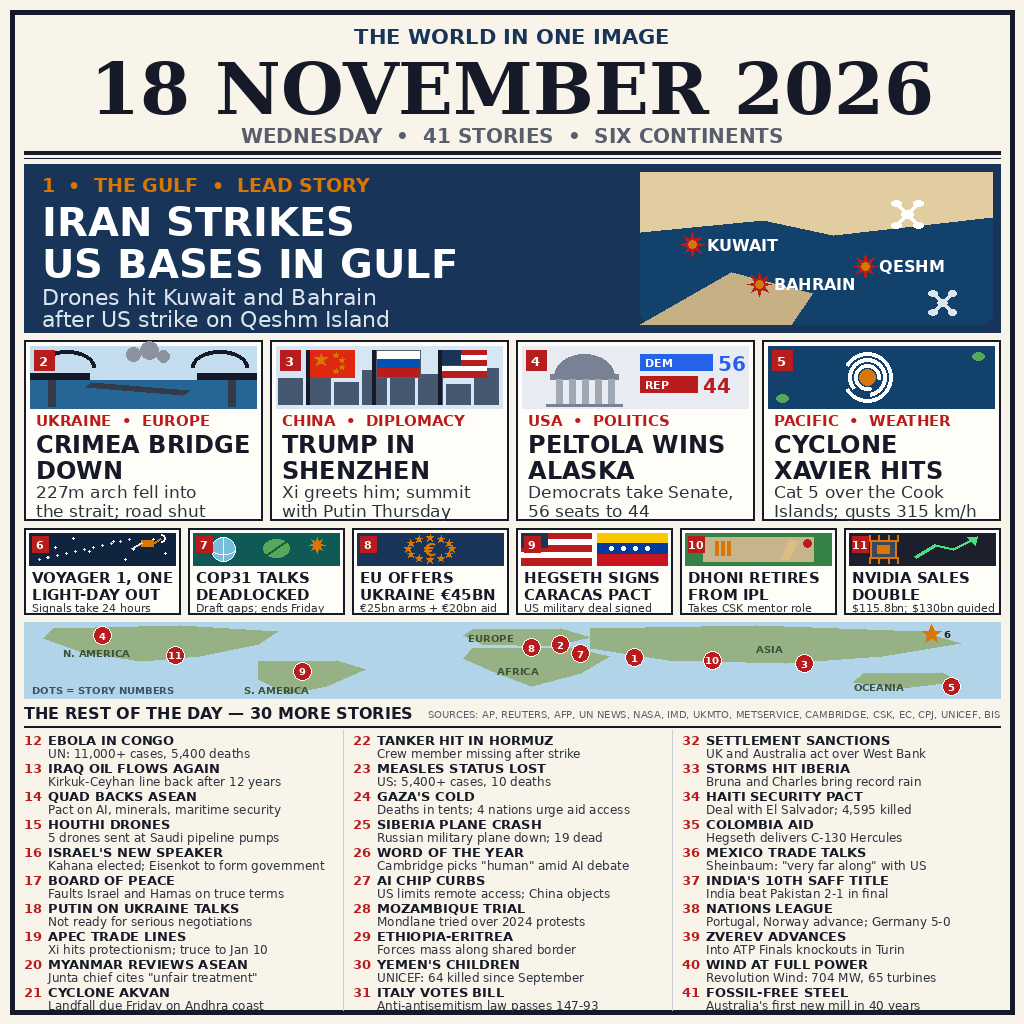
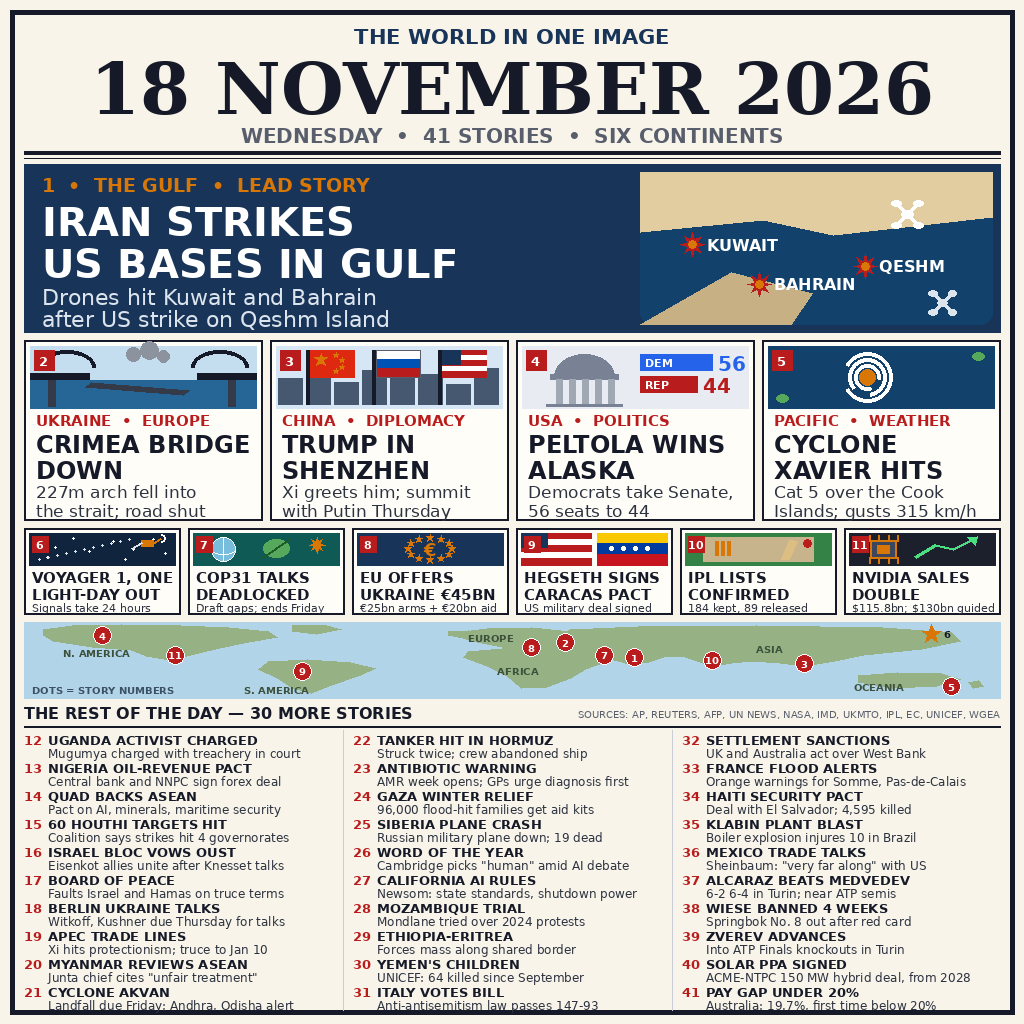
Rebuild poster v3: all 41 stories re-verified to 18 Nov, redrawn world map

diff --git a/render.py b/render.py
@@ -1,5 +1,5 @@
 #!/usr/bin/env python3
-"""Draw the 18 November 2026 world-news poster, version 2, for make.fun.
+"""Draw the 18 November 2026 world-news poster, version 3, for make.fun.
 
 Build-time generator only: run it locally to produce entry.png, which the
 grader entrypoint (main.py, standard library only) then copies to /output.
@@ -10,8 +10,9 @@ picture panels, six small picture cards, a schematic world map and a
 numbered index of thirty more stories, 41 stories in all across six
 continents. Display type stays large so the page still reads small.
 
-Facts shown (all from reporting published on 18 November 2026; several
-items are 16-17 November events dominating 18 November coverage):
+Facts shown (every item has a verified 18 November 2026 hook: it happened
+on 18 Nov, was first reported on 18 Nov, or has a substantive new 18 Nov
+development):
   1 Gulf: Iran struck at Kuwait and Bahrain early on 18 Nov after the
     US struck Qeshm Island; the bases named host US forces.
   2 Crimea: the Kerch bridge road arch (227 m) fell into the strait
@@ -30,31 +31,36 @@ items are 16-17 November events dominating 18 November coverage):
     in 2027, 25bn military and 20bn budget support.
   9 Venezuela: US Defense Secretary Hegseth signed a military
     cooperation deal in Caracas with interim president Rodriguez.
-  10 Dhoni: MS Dhoni retired as an IPL player and takes a CSK mentor
-    role.
+  10 IPL: the IPL confirmed its 2027 retention lists on 18 Nov: 184
+    players kept, 89 released; Dhoni, who retired as a player on
+    17 Nov, stays at CSK as mentor.
   11 Nvidia: quarterly revenue of $115.8bn, up 103% year on year,
     with about $130bn guided for the next quarter.
-  12-41 (brief index): Ebola in Congo (UN: 11,000+ cases, 5,400
-    deaths); Iraq's Kirkuk-Ceyhan oil pipeline flowing again after 12
-    years; Quad leaders backing ASEAN centrality; Houthi drones at
-    Saudi pipeline pumps; Kahana elected Knesset speaker and Eisenkot
-    tapped to form a government; the Board of Peace faulting Israel
-    and Hamas; Putin not ready for serious Ukraine talks; APEC trade
-    lines and the US-China truce to 10 January; Myanmar reviewing
-    ASEAN ties; Cyclone Akvan nearing Andhra Pradesh; a tanker hit in
-    the Strait of Hormuz; the US losing measles-free status; cold
-    killing in Gaza tents with four nations urging aid access; a
+  12-41 (brief index): Uganda activist Mugumya charged with treachery
+    in a military court; Nigeria's central bank and NNPC sign a forex
+    and energy pact; Quad leaders backing ASEAN centrality; the
+    coalition says 60 Houthi targets destroyed; Eisenkot's bloc vows
+    a swift oust of Netanyahu; the Board of Peace faulting Israel
+    and Hamas; Witkoff and Kushner due in Berlin for Ukraine talks;
+    APEC trade lines and the US-China truce to 10 January; Myanmar
+    reviewing ASEAN ties; Cyclone Akvan, severe storm, landfall due
+    Friday (IMD: 90-100 km/h gusting 110, Narsapur-Puri); the LPG
+    tanker Tara Gas struck twice in the Strait of Hormuz, crew
+    abandoned ship; an antibiotic-resistance warning as AMR Week
+    opens; winter relief for 96,000 flood-hit Gaza families; a
     Russian military plane crash in Siberia killing 19; Cambridge
-    picking "human" as Word of the Year; US curbs on remote AI-chip
-    access; Mozambique's Mondlane on trial; Ethiopia and Eritrea
-    massing forces on their border; 64 children killed in Yemen
-    (UNICEF); Italy's anti-antisemitism bill passing 147-93; UK and
-    Australian sanctions over West Bank settlements; storms Bruna and
-    Charles over Portugal and Madeira; Haiti's security pact with El
-    Salvador; a C-130 for Colombia; Mexico-US trade talks "very far
-    along"; India's 10th SAFF title; Nations League results; Zverev
-    reaching the ATP Finals knockouts; Revolution Wind at full power;
-    Australia's first new steel mill in 40 years, fossil-free.
+    picking "human" as Word of the Year; California's AI safety
+    rules with shutdown power; Mozambique's Mondlane on trial;
+    Ethiopia and Eritrea massing forces on their border; 64
+    children killed in Yemen (UNICEF); Italy's anti-antisemitism
+    bill passing 147-93; UK and Australian sanctions over West Bank
+    settlements; orange rain-flood warnings for Somme and
+    Pas-de-Calais; Haiti's security pact with El Salvador; a boiler
+    explosion injuring 10 at a Klabin plant in Brazil; Mexico-US
+    trade talks "very far along"; Alcaraz beating Medvedev 6-2 6-4;
+    Wiese banned four weeks; Zverev reaching the ATP Finals
+    knockouts; ACME Solar's 150 MW hybrid PPA with NTPC;
+    Australia's gender pay gap below 20% for the first time.
 """
 
 import math
@@ -283,7 +289,7 @@ def mini_venezuela(draw, x0, y0, x1, y1):
         draw.ellipse([sx - 2, y0 + 13, sx + 2, y0 + 17], fill=WHITE)
 
 
-def mini_dhoni(draw, x0, y0, x1, y1):
+def mini_cricket(draw, x0, y0, x1, y1):
     draw.rectangle([x0, y0, x1, y1], fill=(52, 130, 70))
     draw.rectangle([x0 + 18, y0 + 4, x0 + 128, y0 + 28], fill=(200, 180, 140))
     for sx in (x0 + 30, x0 + 36, x0 + 42):
@@ -313,23 +319,44 @@ def world_map(draw, x0, y0, x1, y1):
     def poly(fracs):
         draw.polygon([(x0 + fx * w, y0 + fy * h) for fx, fy in fracs], fill=LAND)
 
-    poly([(0.03, 0.08), (0.16, 0.05), (0.26, 0.12), (0.24, 0.30), (0.18, 0.45),
-          (0.12, 0.52), (0.06, 0.40), (0.02, 0.22)])
-    poly([(0.24, 0.52), (0.32, 0.50), (0.35, 0.62), (0.31, 0.85), (0.27, 0.95), (0.24, 0.75)])
-    poly([(0.46, 0.10), (0.55, 0.08), (0.58, 0.20), (0.54, 0.32), (0.47, 0.30), (0.45, 0.18)])
-    poly([(0.46, 0.35), (0.56, 0.33), (0.60, 0.45), (0.57, 0.68), (0.52, 0.85),
-          (0.48, 0.65), (0.45, 0.48)])
-    poly([(0.58, 0.08), (0.75, 0.05), (0.92, 0.12), (0.96, 0.28), (0.88, 0.45),
-          (0.78, 0.55), (0.66, 0.50), (0.58, 0.35)])
-    poly([(0.86, 0.68), (0.94, 0.66), (0.96, 0.78), (0.90, 0.88), (0.85, 0.80)])
+    # North America: Alaska bump, Hudson Bay bite, Mexico taper.
+    poly([(0.02, 0.10), (0.05, 0.05), (0.10, 0.03), (0.16, 0.04), (0.21, 0.07),
+          (0.25, 0.13), (0.26, 0.21), (0.23, 0.27), (0.20, 0.35), (0.175, 0.43),
+          (0.15, 0.51), (0.125, 0.46), (0.11, 0.37), (0.07, 0.34), (0.03, 0.26),
+          (0.02, 0.18)])
+    # Greenland.
+    poly([(0.275, 0.05), (0.31, 0.04), (0.325, 0.10), (0.30, 0.16), (0.275, 0.12)])
+    # South America: Brazil bulge, tapering tail.
+    poly([(0.25, 0.52), (0.29, 0.49), (0.335, 0.53), (0.36, 0.61), (0.345, 0.71),
+          (0.315, 0.83), (0.295, 0.94), (0.275, 0.88), (0.26, 0.74), (0.24, 0.62)])
+    # Europe with Britain offshore.
+    poly([(0.45, 0.13), (0.475, 0.08), (0.52, 0.07), (0.56, 0.12), (0.575, 0.20),
+          (0.565, 0.28), (0.55, 0.35), (0.52, 0.37), (0.49, 0.33), (0.46, 0.26),
+          (0.445, 0.19)])
+    poly([(0.435, 0.13), (0.455, 0.11), (0.465, 0.17), (0.45, 0.22), (0.435, 0.18)])
+    # Africa: west bulge and the Horn.
+    poly([(0.455, 0.39), (0.49, 0.355), (0.545, 0.355), (0.585, 0.40), (0.605, 0.45),
+          (0.595, 0.53), (0.575, 0.62), (0.56, 0.74), (0.535, 0.86), (0.51, 0.87),
+          (0.495, 0.72), (0.475, 0.58), (0.45, 0.47)])
+    # Asia: Turkey bump, Arabia, India triangle, SE Asia.
+    poly([(0.545, 0.22), (0.548, 0.30), (0.552, 0.37), (0.568, 0.425), (0.59, 0.44),
+          (0.605, 0.50), (0.62, 0.56), (0.64, 0.53), (0.655, 0.47), (0.675, 0.45),
+          (0.69, 0.52), (0.705, 0.59), (0.725, 0.55), (0.745, 0.52), (0.775, 0.55),
+          (0.80, 0.58), (0.83, 0.52), (0.86, 0.44), (0.92, 0.36), (0.96, 0.26),
+          (0.95, 0.14), (0.88, 0.07), (0.75, 0.04), (0.63, 0.06), (0.56, 0.10),
+          (0.55, 0.16)])
+    # Australia and New Zealand.
+    poly([(0.855, 0.70), (0.895, 0.665), (0.94, 0.68), (0.96, 0.76), (0.935, 0.85),
+          (0.89, 0.87), (0.855, 0.79)])
+    poly([(0.968, 0.79), (0.978, 0.77), (0.983, 0.85), (0.973, 0.88)])
     lab = font(SANS_BOLD, 10)
     for text, fx, fy in (("N. AMERICA", 0.04, 0.33), ("S. AMERICA", 0.225, 0.82),
                          ("EUROPE", 0.455, 0.13), ("AFRICA", 0.485, 0.56),
                          ("ASIA", 0.75, 0.28), ("OCEANIA", 0.85, 0.78)):
         draw.text((x0 + fx * w, y0 + fy * h), text, font=lab, fill=(60, 80, 60))
     numf = font(SANS_BOLD, 10)
-    for n, fx, fy in ((1, 0.625, 0.47), (2, 0.55, 0.30), (3, 0.80, 0.55), (4, 0.08, 0.18),
-                      (5, 0.95, 0.85), (7, 0.57, 0.42), (8, 0.52, 0.34), (9, 0.285, 0.65),
+    for n, fx, fy in ((1, 0.625, 0.47), (2, 0.555, 0.27), (3, 0.80, 0.55), (4, 0.08, 0.18),
+                      (5, 0.95, 0.85), (7, 0.595, 0.44), (8, 0.52, 0.34), (9, 0.285, 0.65),
                       (10, 0.705, 0.50), (11, 0.155, 0.44)):
         px, py = x0 + fx * w, y0 + fy * h
         draw.ellipse([px - 9, py - 9, px + 9, py + 9], fill=RED, outline=WHITE, width=1)
@@ -365,36 +392,36 @@ def mini(draw, x0, y0, x1, y1, num, head_lines, deck, art):
 
 
 BRIEFS = [
-    ("EBOLA IN CONGO", "UN: 11,000+ cases, 5,400 deaths"),
-    ("IRAQ OIL FLOWS AGAIN", "Kirkuk-Ceyhan line back after 12 years"),
+    ("UGANDA ACTIVIST CHARGED", "Mugumya charged with treachery in court"),
+    ("NIGERIA OIL-REVENUE PACT", "Central bank and NNPC sign forex deal"),
     ("QUAD BACKS ASEAN", "Pact on AI, minerals, maritime security"),
-    ("HOUTHI DRONES", "5 drones sent at Saudi pipeline pumps"),
-    ("ISRAEL'S NEW SPEAKER", "Kahana elected; Eisenkot to form government"),
+    ("60 HOUTHI TARGETS HIT", "Coalition says strikes hit 4 governorates"),
+    ("ISRAEL BLOC VOWS OUST", "Eisenkot allies unite after Knesset talks"),
     ("BOARD OF PEACE", "Faults Israel and Hamas on truce terms"),
-    ("PUTIN ON UKRAINE TALKS", "Not ready for serious negotiations"),
+    ("BERLIN UKRAINE TALKS", "Witkoff, Kushner due Thursday for talks"),
     ("APEC TRADE LINES", "Xi hits protectionism; truce to Jan 10"),
     ("MYANMAR REVIEWS ASEAN", 'Junta chief cites "unfair treatment"'),
-    ("CYCLONE AKVAN", "Landfall due Friday on Andhra coast"),
-    ("TANKER HIT IN HORMUZ", "Crew member missing after strike"),
-    ("MEASLES STATUS LOST", "US: 5,400+ cases, 10 deaths"),
-    ("GAZA'S COLD", "Deaths in tents; 4 nations urge aid access"),
+    ("CYCLONE AKVAN", "Landfall due Friday; Andhra, Odisha alert"),
+    ("TANKER HIT IN HORMUZ", "Struck twice; crew abandoned ship"),
+    ("ANTIBIOTIC WARNING", "AMR week opens; GPs urge diagnosis first"),
+    ("GAZA WINTER RELIEF", "96,000 flood-hit families get aid kits"),
     ("SIBERIA PLANE CRASH", "Russian military plane down; 19 dead"),
     ("WORD OF THE YEAR", 'Cambridge picks "human" amid AI debate'),
-    ("AI CHIP CURBS", "US limits remote access; China objects"),
+    ("CALIFORNIA AI RULES", "Newsom: state standards, shutdown power"),
     ("MOZAMBIQUE TRIAL", "Mondlane tried over 2024 protests"),
     ("ETHIOPIA-ERITREA", "Forces mass along shared border"),
     ("YEMEN'S CHILDREN", "UNICEF: 64 killed since September"),
     ("ITALY VOTES BILL", "Anti-antisemitism law passes 147-93"),
     ("SETTLEMENT SANCTIONS", "UK and Australia act over West Bank"),
-    ("STORMS HIT IBERIA", "Bruna and Charles bring record rain"),
+    ("FRANCE FLOOD ALERTS", "Orange warnings for Somme, Pas-de-Calais"),
     ("HAITI SECURITY PACT", "Deal with El Salvador; 4,595 killed"),
-    ("COLOMBIA AID", "Hegseth delivers C-130 Hercules"),
+    ("KLABIN PLANT BLAST", "Boiler explosion injures 10 in Brazil"),
     ("MEXICO TRADE TALKS", 'Sheinbaum: "very far along" with US'),
-    ("INDIA'S 10TH SAFF TITLE", "India beat Pakistan 2-1 in final"),
-    ("NATIONS LEAGUE", "Portugal, Norway advance; Germany 5-0"),
+    ("ALCARAZ BEATS MEDVEDEV", "6-2 6-4 in Turin; near ATP semis"),
+    ("WIESE BANNED 4 WEEKS", "Springbok No. 8 out after red card"),
     ("ZVEREV ADVANCES", "Into ATP Finals knockouts in Turin"),
-    ("WIND AT FULL POWER", "Revolution Wind: 704 MW, 65 turbines"),
-    ("FOSSIL-FREE STEEL", "Australia's first new mill in 40 years"),
+    ("SOLAR PPA SIGNED", "ACME-NTPC 150 MW hybrid deal, from 2028"),
+    ("PAY GAP UNDER 20%", "Australia: 19.7%, first time below 20%"),
 ]
 
 
@@ -442,7 +469,7 @@ def main():
         (188, 7, ["COP31 TALKS", "DEADLOCKED"], "Draft gaps; ends Friday", mini_cop),
         (352, 8, ["EU OFFERS", "UKRAINE \u20ac45BN"], "\u20ac25bn arms + \u20ac20bn aid", mini_eu),
         (516, 9, ["HEGSETH SIGNS", "CARACAS PACT"], "US military deal signed", mini_venezuela),
-        (680, 10, ["DHONI RETIRES", "FROM IPL"], "Takes CSK mentor role", mini_dhoni),
+        (680, 10, ["IPL LISTS", "CONFIRMED"], "184 kept, 89 released", mini_cricket),
         (844, 11, ["NVIDIA SALES", "DOUBLE"], "$115.8bn; $130bn guided", mini_chip),
     ]
     for x0, num, head_lines, deck_line, art in minis:
@@ -454,7 +481,7 @@ def main():
     # Numbered brief index: thirty more stories in three columns.
     draw.text((24, 704), "THE REST OF THE DAY \u2014 30 MORE STORIES",
               font=font(SANS_BOLD, 16), fill=INK)
-    src = "SOURCES: AP, REUTERS, AFP, UN NEWS, NASA, IMD, UKMTO, METSERVICE, CAMBRIDGE, CSK, EC, CPJ, UNICEF, BIS"
+    src = "SOURCES: AP, REUTERS, AFP, UN NEWS, NASA, IMD, UKMTO, IPL, EC, UNICEF, WGEA"
     srcf = font(SANS, 10)
     draw.text((1000 - text_w(draw, src, srcf), 708), src, font=srcf, fill=GREY)
     draw.line([(24, 726), (1000, 726)], fill=INK, width=2)

diff --git a/README.md b/README.md
@@ -4,7 +4,7 @@
 [![rank](https://make.fun/badge/news-image-20261118/arukh89/news-image-20261118/rank.svg)](https://make.fun/bounty/news-image-20261118/leaderboard?utm_source=github&utm_medium=readme&utm_campaign=news-image-20261118)
 [![reward](https://make.fun/badge/news-image-20261118/arukh89/news-image-20261118/reward.svg)](https://make.fun/bounty/news-image-20261118?utm_source=github&utm_medium=readme&utm_campaign=news-image-20261118)
 
-One image summing up the world news of Wednesday 18 November 2026: 41 stories across six continents — a lead story on the Gulf strikes, picture panels for the fallen Crimea bridge span, the Shenzhen summit, the Alaska Senate result and Cyclone Xavier, six small picture cards (Voyager 1, the COP31 talks, the EU's Ukraine loan, the Caracas pact, Dhoni's retirement, Nvidia's results), a schematic world map, and a numbered index of 30 more stories. Every shape and letter is drawn from code; no photograph or downloaded artwork is used.
+One image summing up the world news of Wednesday 18 November 2026: 41 stories across six continents — a lead story on the Gulf strikes, picture panels for the fallen Crimea bridge span, the Shenzhen summit, the Alaska Senate result and Cyclone Xavier, six small picture cards (Voyager 1, the COP31 talks, the EU's Ukraine loan, the Caracas pact, the IPL retention lists, Nvidia's results), a schematic world map, and a numbered index of 30 more stories. Every shape and letter is drawn from code; no photograph or downloaded artwork is used.
 
 ## Run it
 
